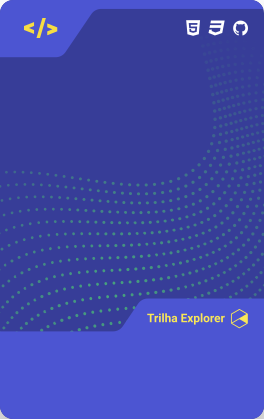
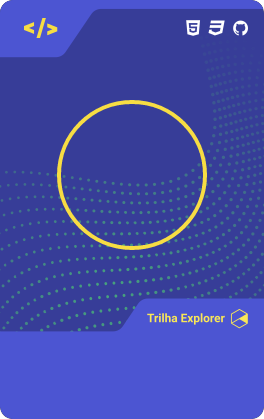
chore: improve default image & remove disabled radio button

diff --git a/src/pages/components/UI/atoms/Radio.tsx b/src/pages/components/UI/atoms/Radio.tsx
@@ -13,18 +13,11 @@ export default function Radio({ label, ...props }: Props) {
     <div className="flex gap-2">
       <input
         type="radio"
-        className={`${props.disabled ? "" : "cursor-pointer"} ${
-          props.className ?? ""
-        }`}
+        className={`cursor-pointer ${props.className ?? ""}`}
         {...props}
       />
 
-      <label
-        htmlFor={props.id}
-        className={`select-none ${
-          props.disabled ? "opacity-30" : "cursor-pointer"
-        }`}
-      >
+      <label htmlFor={props.id} className="select-none cursor-pointer">
         {label}
       </label>
     </div>

diff --git a/src/pages/components/templates/Github.tsx b/src/pages/components/templates/Github.tsx
@@ -58,7 +58,6 @@ export default function Github() {
                 id="explorer"
                 checked={cardType === "explorer"}
                 onChange={handleChangeCardType}
-                disabled={!username}
                 label="Explorer"
               />
 
@@ -67,7 +66,6 @@ export default function Github() {
                 id="ignite"
                 checked={cardType === "ignite"}
                 onChange={handleChangeCardType}
-                disabled={!username}
                 label="Ignite"
               />
             </div>

diff --git a/src/pages/components/templates/URL.tsx b/src/pages/components/templates/URL.tsx
@@ -89,7 +89,6 @@ export default function URL() {
                 id="explorer"
                 checked={cardType === "explorer"}
                 onChange={handleChangeCardType}
-                disabled={!imageUrl}
                 label="Explorer"
               />
 
@@ -98,7 +97,6 @@ export default function URL() {
                 id="ignite"
                 checked={cardType === "ignite"}
                 onChange={handleChangeCardType}
-                disabled={!imageUrl}
                 label="Ignite"
               />
             </div>
